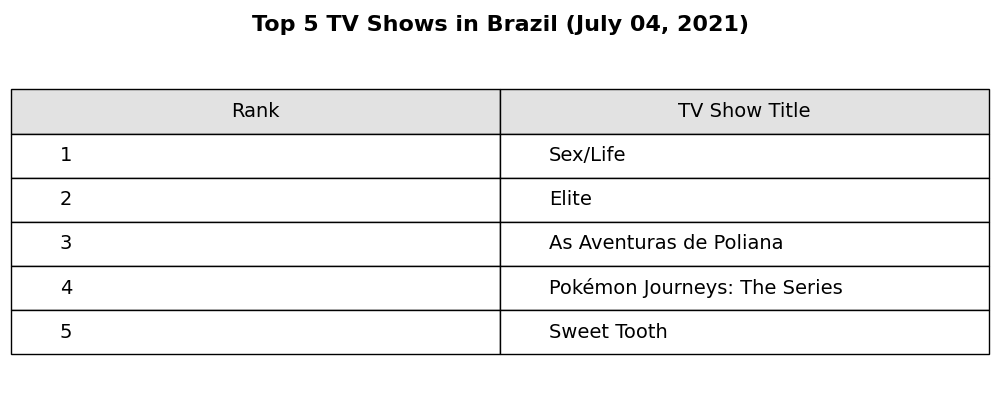
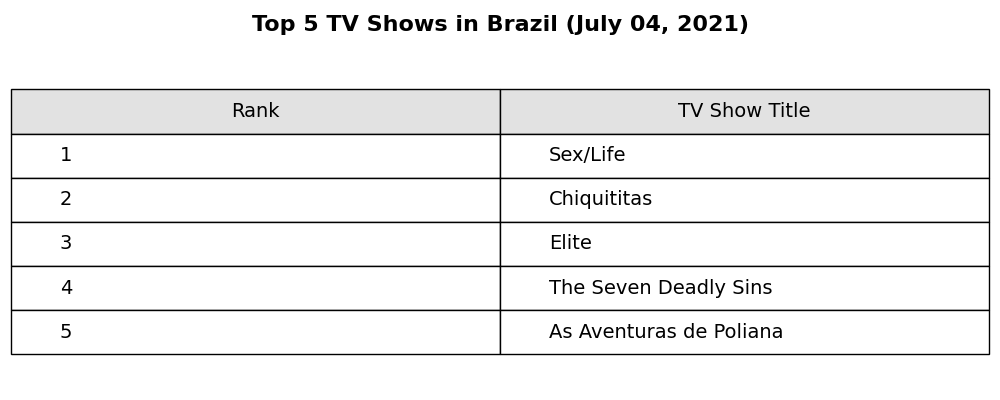
updated netflix

diff --git a/SPARQL/top_people_by_rating.py b/SPARQL/top_people_by_rating.py
@@ -24,7 +24,7 @@ WHERE {
   
   GRAPH <http://mydata.utwente.org/movies/netflix> {
     ?netRecord a mydata:CountryRecord ;
-               schema1:spatialCoverage "Netherlands" ;
+               schema1:spatialCoverage "Brazil" ;
                ?property ?movie .
   }
   
